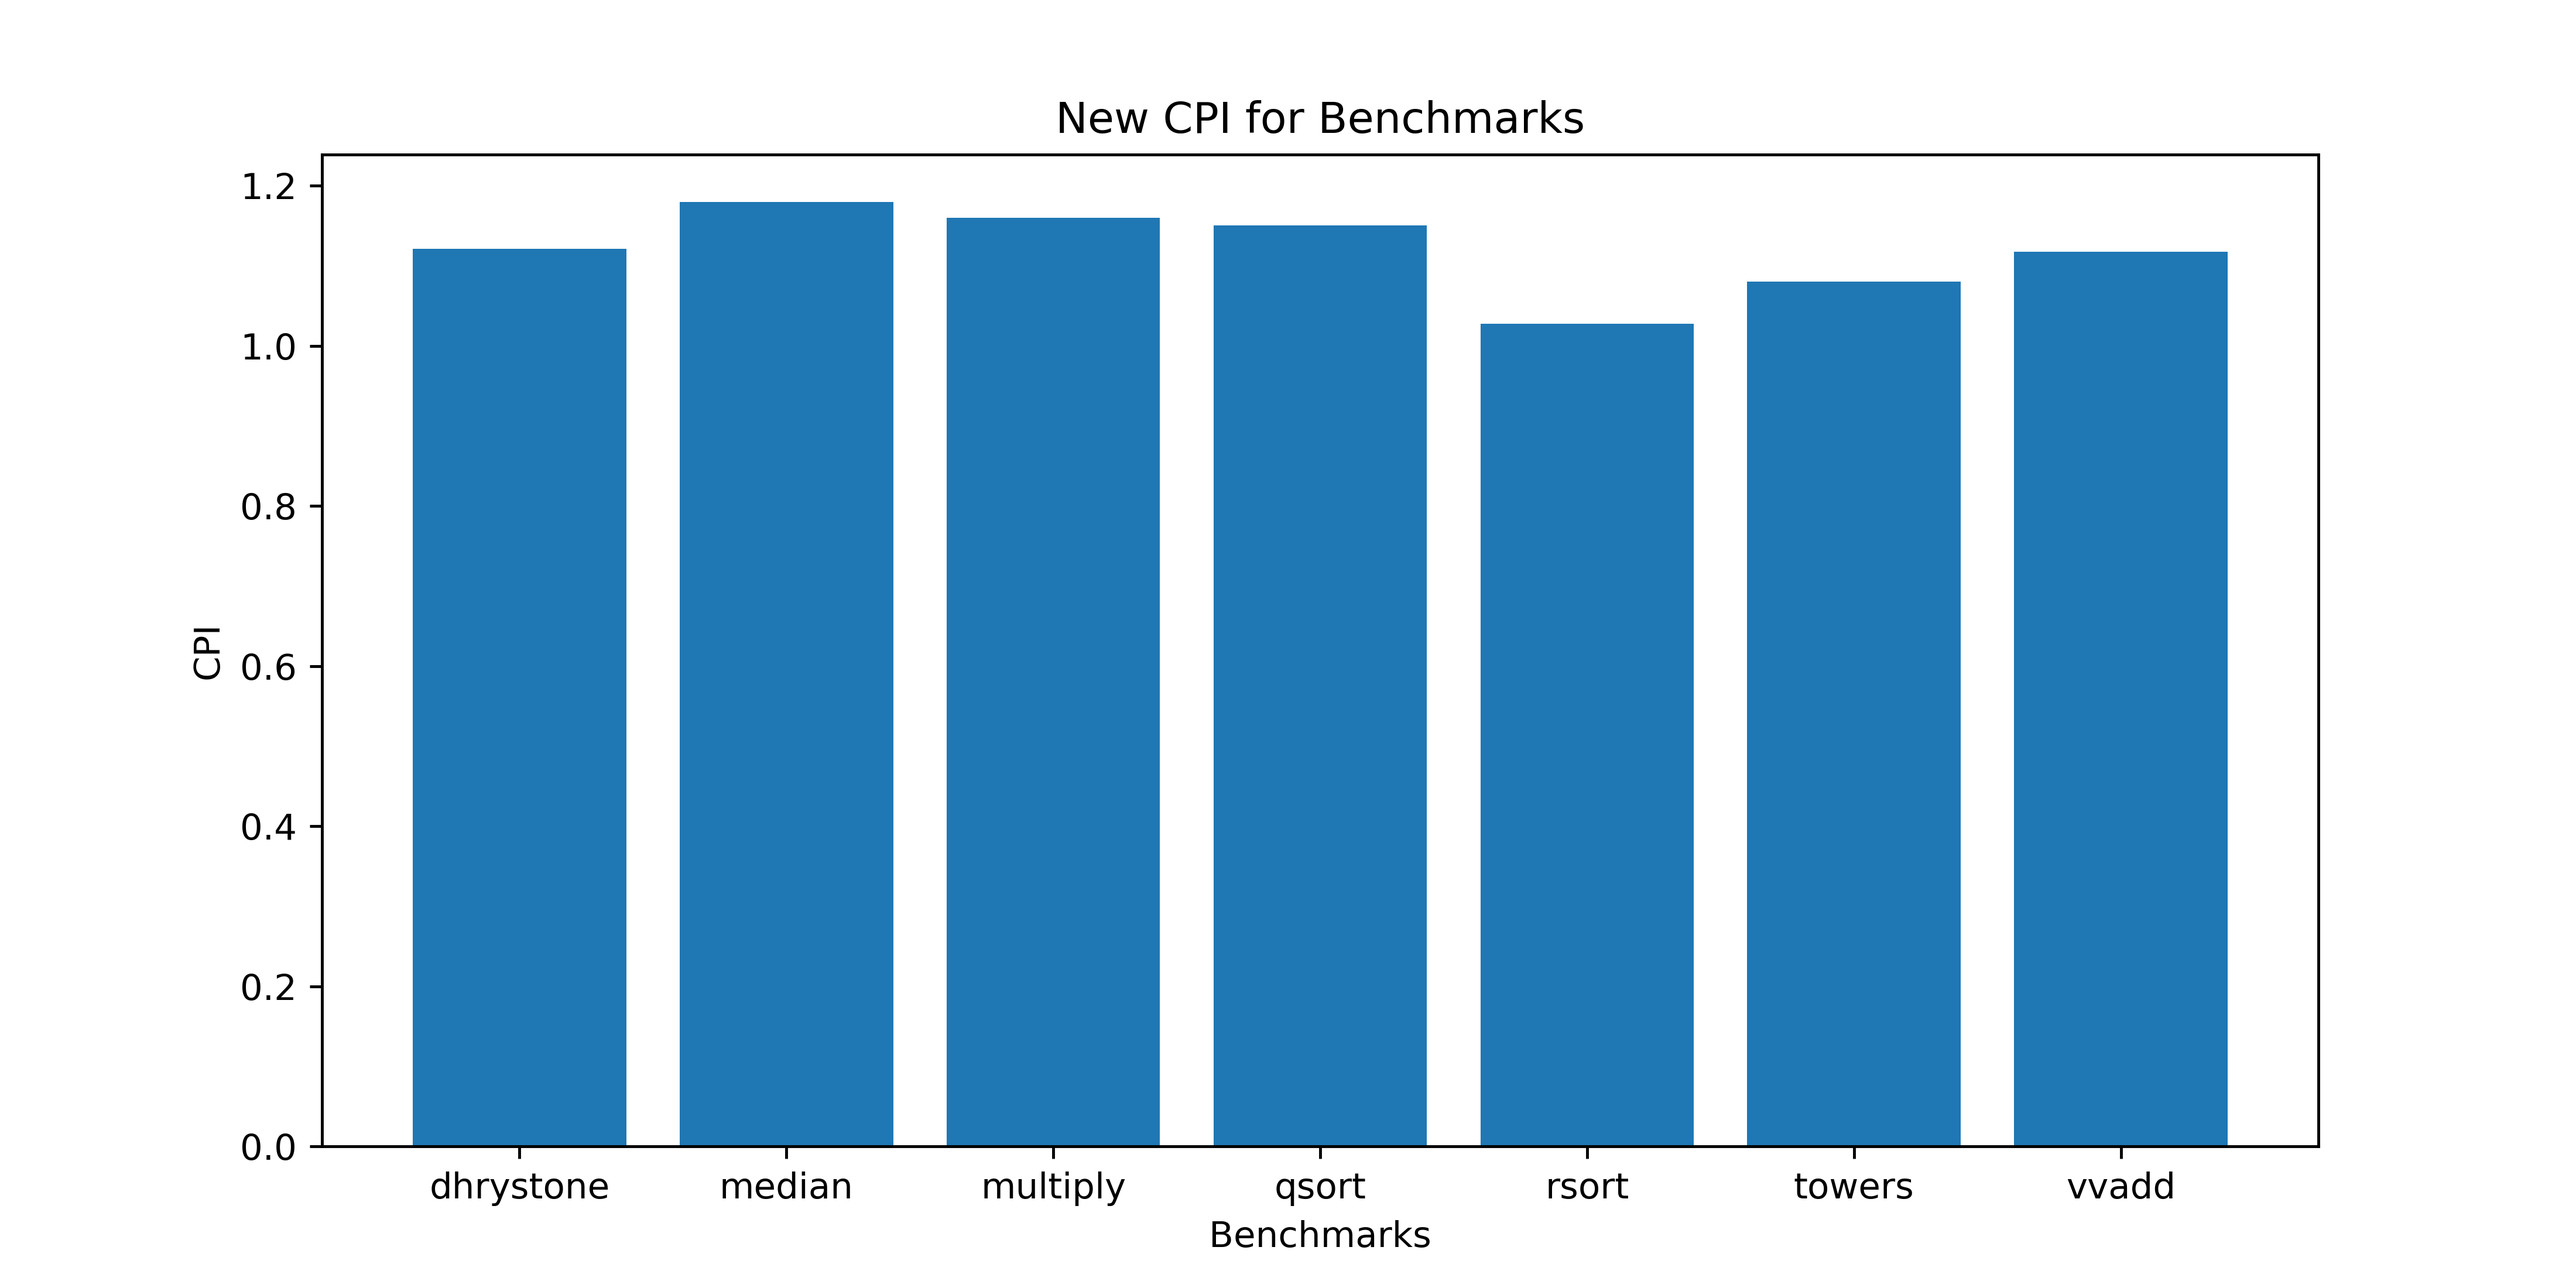
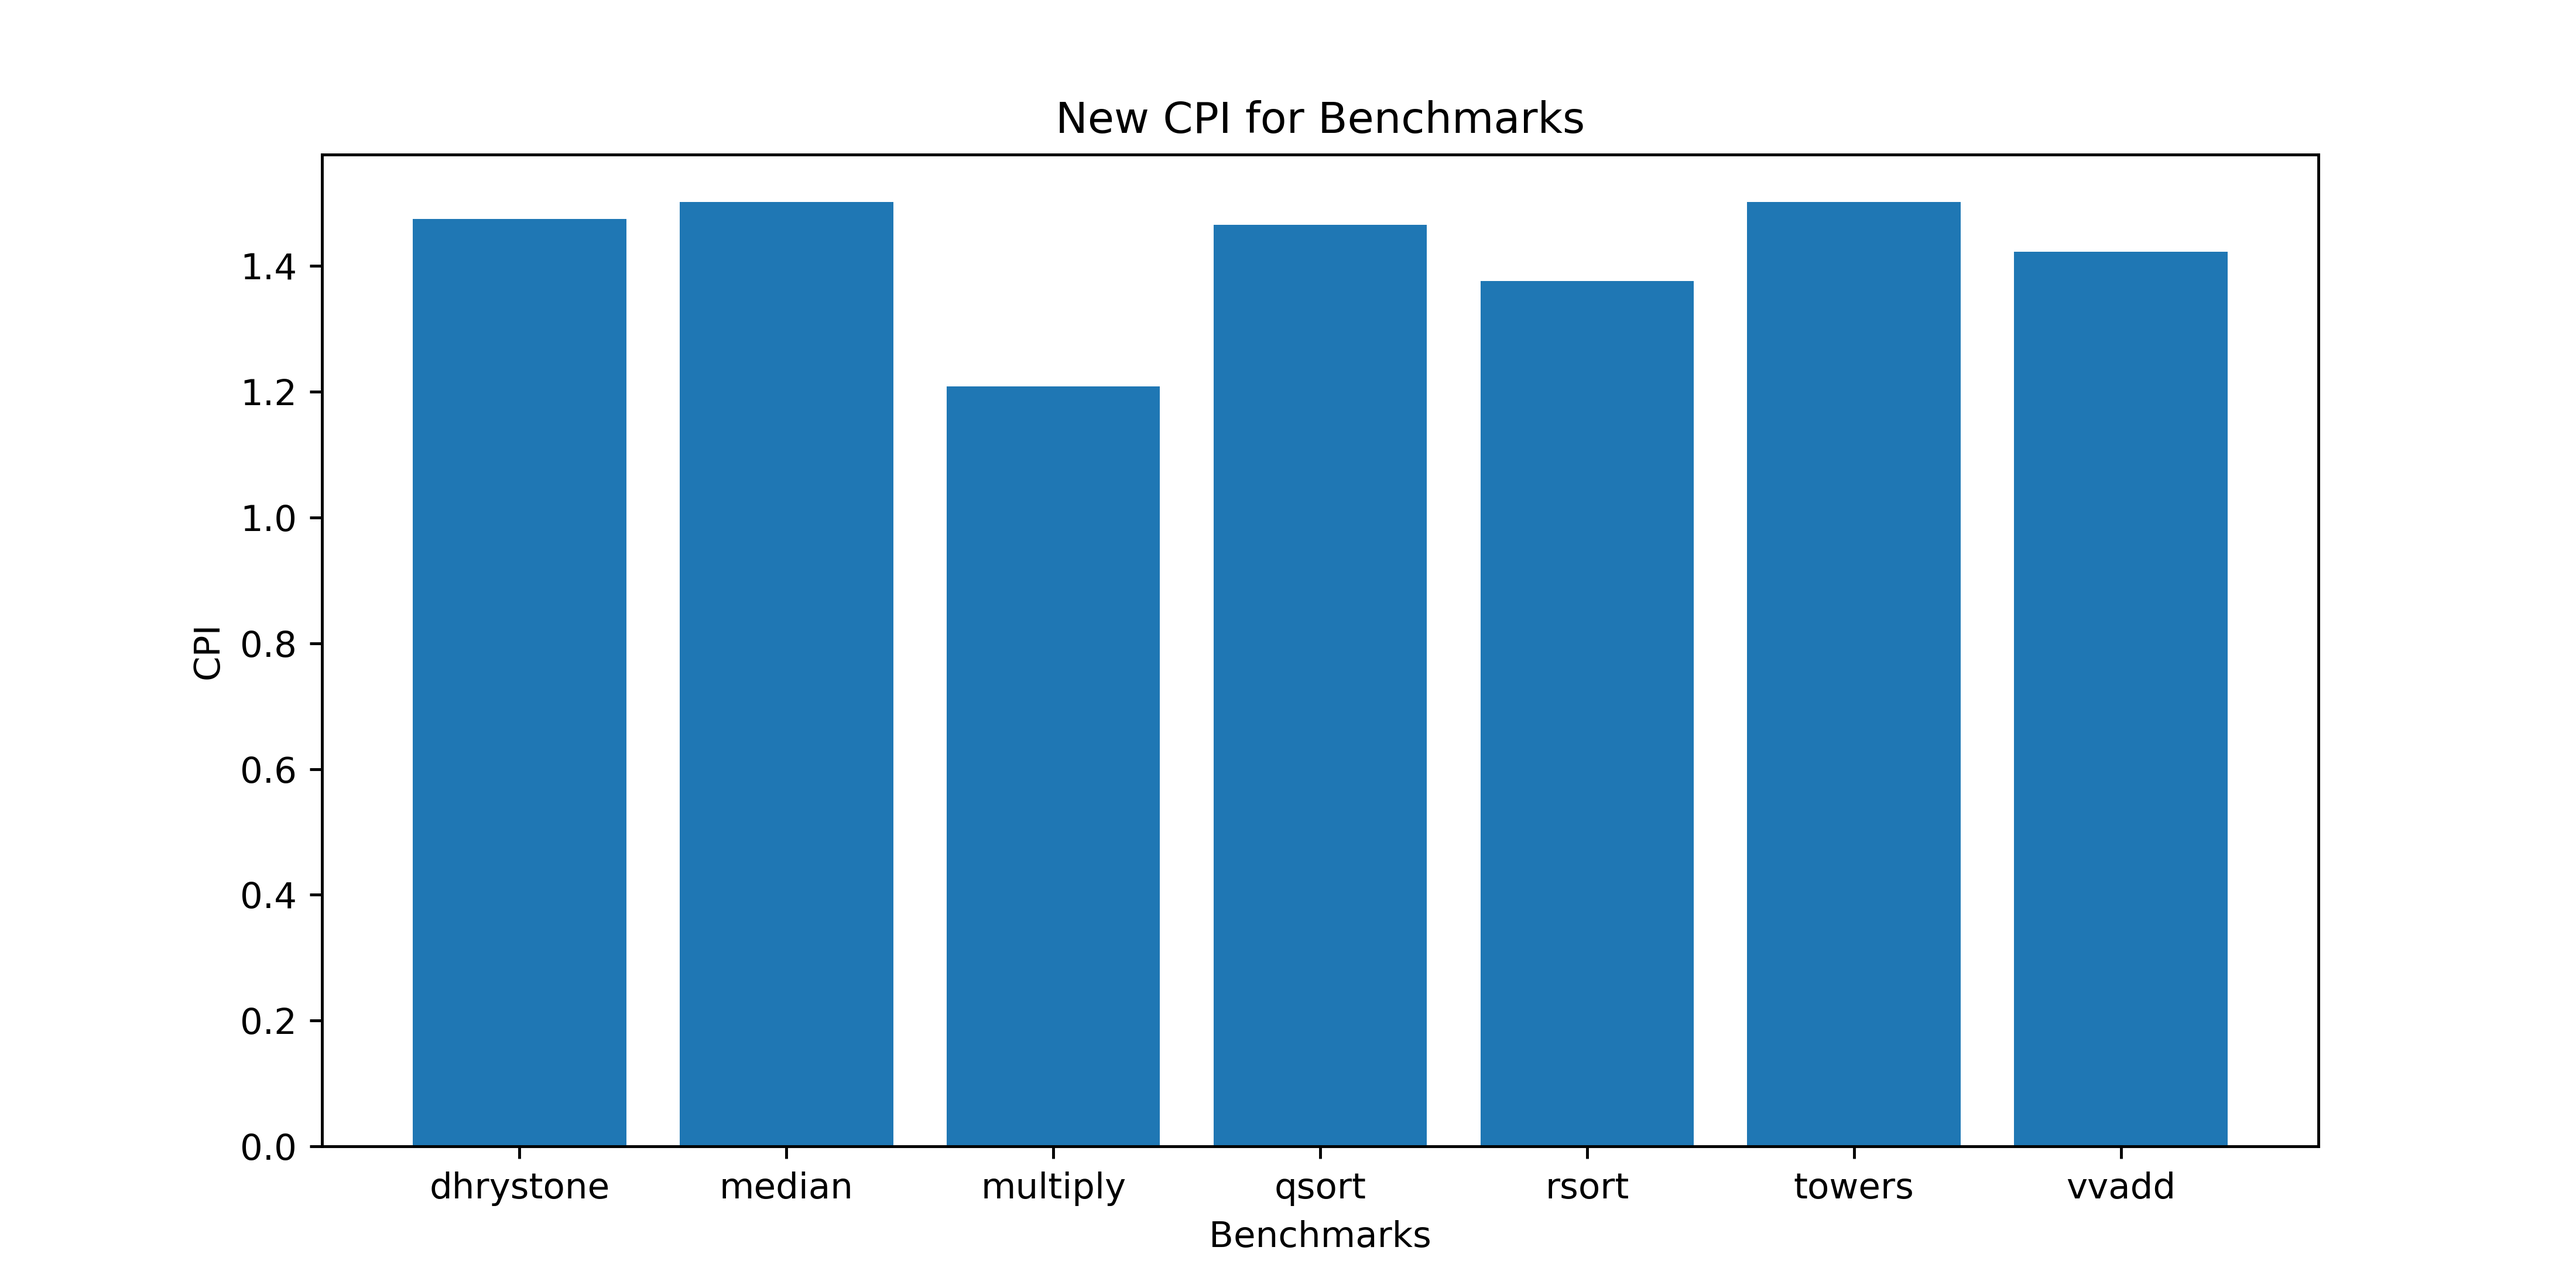
fixes

diff --git a/submission.py b/submission.py
@@ -48,7 +48,9 @@ plt.xlabel("Benchmarks")
 plt.ylabel("CPI")
 plt.savefig("figures/3_5_1.png")
 plt.clf()
-new_cpi = []
+
+
+new_cpi_mem = []
 
 print("Benchmarks for Modified CPI")
 for i in range(len(benchmarks)):
@@ -57,7 +59,7 @@ for i in range(len(benchmarks)):
     total_cycles += int(memory[i] * cycles[i])
     total_cycles += int(1.5 * control[i] * cycles[i])
     total_cycles += int(1.5 * misc[i] * cycles[i])
-    new_cpi.append(total_cycles / instructions[i] / 100)
+    new_cpi_mem.append(total_cycles / instructions[i] / 100)
     print(f"{benchmarks[i]} & {round(new_cpi[i], 3)}")
 
 plt.figure(figsize=(10, 5), dpi=440)
@@ -66,4 +68,16 @@ plt.title("New CPI for Benchmarks")
 plt.xlabel("Benchmarks")
 plt.ylabel("CPI")
 plt.savefig("figures/3_5_2.png")
+plt.clf()
+
+# Comparison Plot
+plt.figure(figsize=(10, 5), dpi=440)
+plt.bar(X_axis - 0.2, new_cpi, 0.4, label="Modified CPI")
+plt.bar(X_axis + 0.2, new_cpi_mem , 0.4, label="Mofiied CPI with Memory Optimized")
+plt.title("CPI Comparison")
+plt.xticks(X_axis, benchmarks)
+plt.xlabel("Benchmarks")
+plt.ylabel("CPI")
+plt.savefig("figures/3_5_3.png")
+plt.legend()
 plt.clf()
